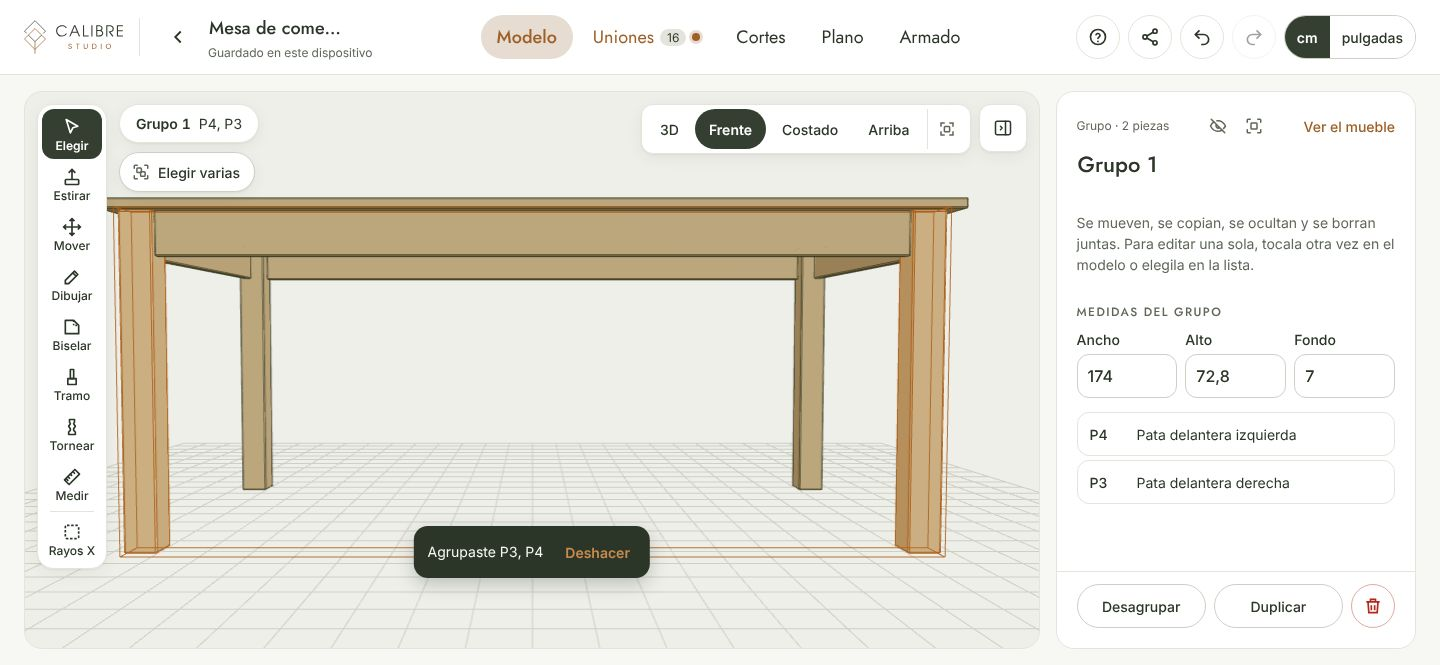
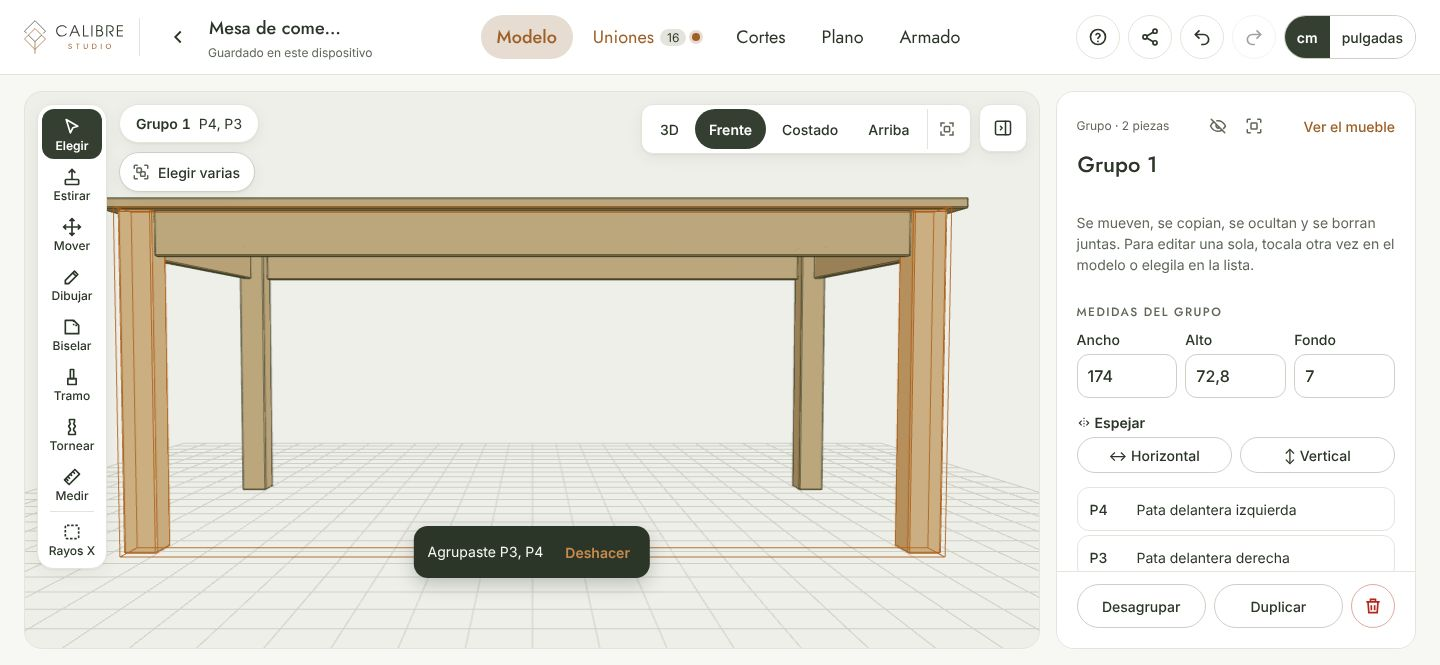
Espejar piezas y grupos: Horizontal y Vertical
Botones Espejar ↔ Horizontal (adelante/atrás mirando de costado) y ↕ Vertical
en el panel de la pieza y en el de varias piezas o grupo, con vista previa.
Núcleo: flipPart (vaciados, biseles, tramos, torneado, inclinación; en una copia
de componente guarda el reflejo) y flipParts (varias piezas sobre el centro de lo
que ocupan). Ayuda: sección Espejar en El panel de la pieza y en Grupos.

Claude-Session: https://claude.ai/code/session_01SmEZXDc5QYCbrpg9QoZ2eB

Changed region(s): [[0.75, 0.6316, 0.9375, 0.782], [0.7812, 0.812, 0.9062, 0.8421]]

diff --git a/apps/web/src/editor/PartPanel.tsx b/apps/web/src/editor/PartPanel.tsx
@@ -65,13 +65,14 @@ import {
   type Section,
   type Units,
   tenonWidth,
+  flipParts,
 } from '@kitc/core';
 import { OPEN_EVENT, PartNotes, ReviewCard, reviewSummary, useReview } from './Review';
 import { GoldenCard, goldenCount } from './Golden';
 import { Accordion } from '../ui/Accordion';
 import { HelpTip } from '../help/Help';
 import { sectionHref } from '../routes';
-import { IconCornerPoint, IconCurvePoint, IconGroup, IconLink, IconPlus, IconRotate, IconTrash, IconWarn, IconZoomIn } from './icons';
+import { IconCornerPoint, IconCurvePoint, IconGroup, IconLink, IconFlip, IconPlus, IconRotate, IconTrash, IconWarn, IconZoomIn } from './icons';
 import { TurningCard } from './TurningCard';
 import { FittingPanel } from './FittingPanel';
 import { MaterialOptions, sheetNote } from './MaterialOptions';
@@ -842,6 +843,7 @@ function PartEditor({ part, project }: { part: Part; project: Project }) {
           </button>
         ))}
       </div>
+      <FlipRow ids={[part.id]} label={part.id} />
       {/* Patas inclinadas: la pata gira sobre su punta de arriba y las puntas quedan horizontales. */}
       {leanable(part) && (
         <fieldset className={styles.dims}>
@@ -1161,6 +1163,7 @@ function PickedPanel({ project, ids }: { project: Project; ids: string[] }) {
           : t('Agrupalas para que se muevan juntas. Shift + clic (o Elegir varias) suma o saca piezas.')}
       </p>
       <FurnitureSize key={ids.join()} project={project} ids={ids} />
+      <FlipRow ids={ids} label={label} />
       <ul className={styles.partList} data-many={parts.length > PART_LIST_MAX || undefined}>
         {parts.map((p) => (
           <li key={p.id}>
@@ -1220,6 +1223,44 @@ function PickedPanel({ project, ids }: { project: Project; ids: string[] }) {
   );
 }
 
+/**
+ * Espejar la pieza (o las piezas elegidas, sobre el centro de lo que ocupan): de izquierda a derecha, o de adelante
+ * hacia atrás si se mira de costado, y de arriba abajo. Pasa con vista previa: lo dibujado cambia de lado.
+ */
+function FlipRow({ ids, label }: { ids: string[]; label: string }) {
+  const propose = useEditor((s) => s.propose);
+  const side = useEditor((s) => s.view === 'side');
+  const flips = [
+    side
+      ? ([2, tk('↔ Horizontal'), tk('Lo de adelante pasa atrás, como visto en un espejo')] as const)
+      : ([0, tk('↔ Horizontal'), tk('Lo de la izquierda pasa a la derecha, como visto en un espejo')] as const),
+    [1, tk('↕ Vertical'), tk('Lo de arriba pasa abajo, como visto en un espejo')] as const,
+  ];
+  return (
+    <div className={styles.rotateRow} data-two role="group" aria-label={t('Espejar')}>
+      <span className={styles.rotateTitle}>
+        <IconFlip />
+        {t('Espejar')}
+      </span>
+      {flips.map(([axis, name, title]) => (
+        <button
+          key={axis}
+          type="button"
+          title={t(title)}
+          onClick={() =>
+            propose((d) => flipParts(d.parts as Part[], ids, axis), t('Espejaste {id}', { id: label }), {
+              title: t('{id} en espejo', { id: label }),
+              select: ids.length === 1 ? ids[0] : ids,
+            })
+          }
+        >
+          {t(name)}
+        </button>
+      ))}
+    </div>
+  );
+}
+
 /** Si la pieza es parte de un componente: cuántas copias tiene y qué cambia junto. */
 function ComponentNote({ project, part, name }: { project: Project; part: Part; name: string }) {
   const copies = componentCopies(project, part);
@@ -1232,7 +1273,7 @@ function ComponentNote({ project, part, name }: { project: Project; part: Part; 
       </span>
       <p className={styles.muted}>
         {others.length ? t('Medidas, madera y cantos cambian junto con {ids}.', { ids: others.join(', ') }) : t('Duplicala o copiala al mover y las copias quedan vinculadas.')}
-        {part.orient && ` ${t('Esta copia va girada: los biseles y vaciados le llegan en su lugar.')}`}
+        {part.orient && ` ${t('Esta copia va girada o espejada: los biseles y vaciados le llegan en su lugar.')}`}
       </p>
     </div>
   );

diff --git a/apps/web/src/ayuda/es-piezas.ts b/apps/web/src/ayuda/es-piezas.ts
@@ -6,7 +6,7 @@ export const ES_PARTS: Article[] = [
     id: 'panel-pieza',
     topic: 'piezas',
     title: 'El panel de la pieza',
-    summary: 'Medidas, posición, giro, madera, forma y uniones de la pieza elegida.',
+    summary: 'Medidas, posición, giro, espejo, madera, forma y uniones de la pieza elegida.',
     intro: [
       p('Cuando elegís una pieza, el panel de la derecha muestra todo lo de esa pieza, de arriba hacia abajo: cuál es, cuánto mide, dónde está, de qué madera es, su forma y con qué otras piezas se une. En el celular, el panel está debajo del modelo.'),
       img('panel-pieza', 'El panel de una pata elegida, marcado'),
@@ -49,6 +49,25 @@ export const ES_PARTS: Article[] = [
             ['**Al costado**', 'La vuelca de costado: lo de arriba pasa a un lado.'],
           ),
           p('Al girar, los vaciados, biseles, tramos y el torneado giran con la pieza.'),
+        ],
+      },
+      {
+        id: 'espejar',
+        title: 'Espejar',
+        blocks: [
+          p('**Espejar** da vuelta la pieza como vista en un espejo, sin moverla de su lugar. Lo dibujado pasa al otro lado: un calado cerca de la punta izquierda queda cerca de la derecha.'),
+          table(
+            ['Botón', 'Qué hace'],
+            ['**↔ Horizontal**', 'Lo de la izquierda pasa a la derecha. Mirando de **Costado**, espeja de adelante hacia atrás.'],
+            ['**↕ Vertical**', 'Lo de arriba pasa abajo.'],
+          ),
+          list(
+            'Antes de aplicar, la vista previa muestra cómo queda, con **Aplicar** y **Cancelar**.',
+            'Pasan con la pieza los vaciados, calados, perfiles a mano, biseles, tramos y el torneado. Una pata inclinada se abre hacia el otro lado.',
+            'En una copia de un componente se espeja solo esa copia, igual que al girar.',
+            'Con varias piezas o un grupo elegidos, se espejan todas juntas sobre el centro de lo que ocupan: cada una se da vuelta y pasa al lugar reflejado.',
+          ),
+          tip('Para hacer una pata con curva y tener las cuatro, dibujá la curva en una, usá **Del otro lado** para la gemela y espejá las que hagan falta.'),
         ],
       },
       {
@@ -261,7 +280,7 @@ export const ES_PARTS: Article[] = [
           steps(
             'Elegí una copia del componente.',
             'Usá **Girar 90°** en el panel. Gira solo esa copia: las demás quedan como están.',
-            'El panel lo dice: **Esta copia va girada**.',
+            'El panel lo dice: **Esta copia va girada o espejada**.',
           ),
         ],
       },
@@ -322,6 +341,7 @@ export const ES_PARTS: Article[] = [
             'Con el grupo elegido, Mover y las flechas mueven todas sus piezas juntas.',
             'En **Medidas del grupo** cambiás el ancho, el alto o el fondo de todo el grupo. Más información: [Medidas del mueble y del grupo](medidas-mueble).',
             '**Duplicar** hace un grupo nuevo con las copias.',
+            '**Espejar** da vuelta el grupo entero como visto en un espejo, sin moverlo de su lugar. Más información: [El panel de la pieza](panel-pieza).',
             'Los grupos aparecen primero en la lista de **Piezas** del mueble, con su ojo para ocultarlos.',
           ),
         ],

diff --git a/apps/web/src/ayuda/en-piezas.ts b/apps/web/src/ayuda/en-piezas.ts
@@ -6,7 +6,7 @@ export const EN_PARTS: Article[] = [
     id: 'panel-pieza',
     topic: 'piezas',
     title: 'The part panel',
-    summary: 'Size, position, rotation, wood, shape and joints of the selected part.',
+    summary: 'Size, position, rotation, mirroring, wood, shape and joints of the selected part.',
     intro: [
       p('When you select a part, the panel on the right shows everything about it, top to bottom: which part it is, its size, where it is, its wood, its shape and which parts it joins. On a phone, the panel is below the model.'),
       img('panel-pieza', 'The panel of a selected leg, highlighted'),
@@ -49,6 +49,25 @@ export const EN_PARTS: Article[] = [
             ['**Sideways**', 'Tips it to one side: the top goes to a side.'],
           ),
           p('Pockets, bevels, sections and turning rotate with the part.'),
+        ],
+      },
+      {
+        id: 'espejar',
+        title: 'Mirror',
+        blocks: [
+          p('**Mirror** flips the part as seen in a mirror, without moving it. What is drawn moves to the other side: a cutout near the left end ends up near the right end.'),
+          table(
+            ['Button', 'What it does'],
+            ['**↔ Horizontal**', 'What was on the left moves to the right. Looking from the **Side**, it mirrors front to back.'],
+            ['**↕ Vertical**', 'What was on top moves to the bottom.'],
+          ),
+          list(
+            'Before it applies, the preview shows the result, with **Apply** and **Cancel**.',
+            'Pockets, cutouts, freehand profiles, bevels, sections and turning go with the part. A leaning leg splays the other way.',
+            'On a copy of a component only that copy is mirrored, just like rotating.',
+            'With several parts or a group selected, they are mirrored together about the center of what they take up: each one flips and moves to its mirrored spot.',
+          ),
+          tip('To make a curved leg and get all four, draw the curve on one, use **Other side** for its twin and mirror the ones you need.'),
         ],
       },
       {
@@ -261,7 +280,7 @@ export const EN_PARTS: Article[] = [
           steps(
             'Select a copy of the component.',
             'Use **Rotate 90°** in the panel. It turns only that copy: the others stay as they are.',
-            'The panel says so: **This copy is rotated**.',
+            'The panel says so: **This copy is rotated or mirrored**.',
           ),
         ],
       },
@@ -322,6 +341,7 @@ export const EN_PARTS: Article[] = [
             'With the group selected, Move and the arrow keys move all its parts together.',
             'Under **Group size** you change the width, height or depth of the whole group. Learn more: [Overall and group size](medidas-mueble).',
             '**Duplicate** makes a new group with the copies.',
+            '**Mirror** flips the whole group as seen in a mirror, without moving it. Learn more: [The part panel](panel-pieza).',
             'Groups come first in the piece’s **Parts** list, with their eye to hide them.',
           ),
         ],

diff --git a/packages/core/src/rotate.test.ts b/packages/core/src/rotate.test.ts
@@ -1,7 +1,7 @@
 import { describe, expect, it } from 'vitest';
 import type { Axis } from './geometry';
 import type { Part } from './project';
-import { rotatePart } from './rotate';
+import { flipPart, rotatePart } from './rotate';
 
 const slat = (): Part => ({
   id: 'L1',
@@ -71,5 +71,45 @@ describe('girar 90°', () => {
         { at: 340, d: 40, to: 'curve', bulge: 3 },
       ],
     });
+  });
+});
+
+describe('espejar', () => {
+  it('de izquierda a derecha: el vaciado y el tramo pasan a la otra punta, sin moverse la pieza', () => {
+    const p = slat();
+    flipPart(p, 0);
+    expect(p.position).toEqual([100, 400, 0]);
+    expect(p.base).toEqual({ kind: 'box', size: [340, 25, 40] });
+    // El rectángulo a 20 de la izquierda (60 de largo) queda a 20 de la derecha: 340 − 80.
+    expect(p.pockets[0]!.shape).toMatchObject({ kind: 'rect', u: 260, w: 60 });
+    expect(p.sections[0]).toMatchObject({ axis: 0, from: 280, to: 340 });
+    expect(p.bevels[0]!.a).toEqual({ axis: 0, side: -1 });
+  });
+
+  it('de arriba abajo: el vaciado de arriba pasa abajo y el arco da vuelta su flecha', () => {
+    const p = slat();
+    flipPart(p, 1);
+    expect([p.pockets[0]!.axis, p.pockets[0]!.side]).toEqual([1, -1]);
+    expect(p.pockets[2]!.shape).toMatchObject({ kind: 'arc', v: 0, v2: 0, bulge: 10 });
+  });
+
+  it('dos veces deja la pieza como estaba', () => {
+    for (const axis of [0, 1, 2] as Axis[]) {
+      const p = slat();
+      flipPart(p, axis);
+      flipPart(p, axis);
+      expect(p).toEqual(slat());
+    }
+  });
+
+  it('una pata inclinada se abre hacia el otro lado; una copia de componente guarda el reflejo', () => {
+    const p = { ...slat(), lean: [5, -3] as [number, number], component: 'C1' };
+    flipPart(p, 0);
+    expect(p.lean).toEqual([-5, -3]);
+    expect(p.orient).toEqual([-1, 2, 3]);
+    flipPart(p, 2);
+    expect(p.lean).toEqual([-5, 3]);
+    flipPart(p, 1);
+    expect(p.lean).toEqual([-5, 3]);
   });
 });

diff --git a/packages/core/src/groups.test.ts b/packages/core/src/groups.test.ts
@@ -1,5 +1,5 @@
 import { describe, expect, it } from 'vitest';
-import { addCopies, duplicateParts, groupOf, isWholeGroup, makeGroup, partsBox, resizeGroup, syncGroups, ungroup } from './groups';
+import { addCopies, duplicateParts, flipParts, groupOf, isWholeGroup, makeGroup, partsBox, resizeGroup, syncGroups, ungroup } from './groups';
 import { partBox } from './geometry';
 import { loadProject, SCHEMA_VERSION } from './project';
 import { decodeShare, encodeShare } from './share';
@@ -85,5 +85,27 @@ describe('grupos', () => {
     expect(p.parts.filter((x) => !ids.includes(x.id))).toEqual(others);
     const legsAfter = ['P3', 'P4'].map((id) => partBox(p.parts.find((x) => x.id === id)!));
     expect(legsAfter.map((b) => b.max[0] - b.min[0])).toEqual(legs.map((b) => b.max[0] - b.min[0]));
+  });
+});
+
+describe('espejar varias piezas', () => {
+  it('cada pieza pasa al lugar reflejado y el conjunto no se va de donde estaba', () => {
+    const p = mesa();
+    const ids = ['P1', 'F2', 'F3'];
+    const before = partsBox(p.parts, ids)!;
+    const f2 = partBox(p.parts.find((x) => x.id === 'F2')!);
+    flipParts(p.parts, ids, 0);
+    expect(partsBox(p.parts, ids)).toEqual(before);
+    const after = partBox(p.parts.find((x) => x.id === 'F2')!);
+    expect(after.min[0]).toBe(before.min[0] + before.max[0] - f2.max[0]);
+    // La pata pasa del borde izquierdo al derecho del conjunto.
+    expect(partBox(p.parts.find((x) => x.id === 'P1')!).max[0]).toBe(before.max[0]);
+  });
+
+  it('una sola pieza se espeja en su lugar', () => {
+    const p = mesa();
+    const box = partBox(p.parts.find((x) => x.id === 'F1')!);
+    flipParts(p.parts, ['F1'], 1);
+    expect(partBox(p.parts.find((x) => x.id === 'F1')!)).toEqual(box);
   });
 });

diff --git a/packages/core/src/groups.ts b/packages/core/src/groups.ts
@@ -1,6 +1,7 @@
 import { copyPart } from './components';
 import { partBox, type Axis, type Box } from './geometry';
 import { resizeFurniture, type ResizeResult } from './resize';
+import { flipPart } from './rotate';
 import { t } from './i18n';
 import type { Group, Part, Project } from './project';
 
@@ -84,6 +85,22 @@ export function partsBox(parts: Part[], ids: readonly string[]): Box | null {
     min: [0, 1, 2].map((k) => Math.min(...boxes.map((b) => b.min[k]!))) as Box['min'],
     max: [0, 1, 2].map((k) => Math.max(...boxes.map((b) => b.max[k]!))) as Box['max'],
   };
+}
+
+/**
+ * Espeja estas piezas juntas sobre el centro de lo que ocupan: cada una se da vuelta y pasa al lugar reflejado, así
+ * el conjunto queda como visto en un espejo y no se va de donde estaba. Con una sola pieza, se espeja en su lugar.
+ */
+export function flipParts(parts: Part[], ids: readonly string[], axis: Axis): void {
+  const box = partsBox(parts, ids);
+  if (!box) return;
+  const sum = box.min[axis] + box.max[axis];
+  for (const part of parts) {
+    if (!ids.includes(part.id) || part.base.kind !== 'box') continue;
+    const own = partBox(part);
+    flipPart(part, axis);
+    part.position[axis] = sum - own.max[axis];
+  }
 }
 
 /**

diff --git a/packages/core/src/rotate.ts b/packages/core/src/rotate.ts
@@ -165,6 +165,18 @@ export function turnPart(part: Part, about: Axis): void {
   setOrient(part, rotationOrient(about));
 }
 
+/**
+ * Espejar una pieza desde el panel, en su lugar: lo de la izquierda pasa a la derecha (eje 0), lo de abajo arriba (1)
+ * o lo de atrás adelante (2). Pasan los vaciados, biseles, tramos y torneado; una pata inclinada se abre hacia el
+ * otro lado. Si es copia de un componente, se espeja solo esa copia, como al girar.
+ */
+export function flipPart(part: Part, axis: Axis): void {
+  mirrorShape(part, axis);
+  setOrient(part, mirrorOrient(axis));
+  // La inclinación es de la punta de abajo, de frente (X) y de costado (Z); dada vuelta de arriba abajo no cambia.
+  if (part.lean && axis !== 1) part.lean[axis === 0 ? 0 : 1] *= -1;
+}
+
 /** Suma un giro o un reflejo a la orientación de la copia (solo en componentes). */
 export function setOrient(part: Part, change: Orient): void {
   if (!part.component) return void delete part.orient;

diff --git a/apps/web/src/i18n/en-editor.ts b/apps/web/src/i18n/en-editor.ts
@@ -265,6 +265,14 @@ export default {
   'La vuelca hacia adelante: lo de arriba pasa al frente': 'Tips it forward: the top becomes the front',
   'La vuelca de costado: lo de arriba pasa a un lado': 'Tips it sideways: the top becomes a side',
   'Giraste {id}': 'You rotated {id}',
+  'Espejar': 'Mirror',
+  '↔ Horizontal': '↔ Horizontal',
+  '↕ Vertical': '↕ Vertical',
+  'Lo de la izquierda pasa a la derecha, como visto en un espejo': 'What was on the left moves to the right, as seen in a mirror',
+  'Lo de adelante pasa atrás, como visto en un espejo': 'What was at the front moves to the back, as seen in a mirror',
+  'Lo de arriba pasa abajo, como visto en un espejo': 'What was on top moves to the bottom, as seen in a mirror',
+  'Espejaste {id}': 'You mirrored {id}',
+  '{id} en espejo': '{id}, mirrored',
   'mismo retiro que {id}': 'same inset as {id}',
   ' al lado de ': ' alongside ',
   'Pieza elegida': 'Selected part',

diff --git a/apps/web/src/ayuda/es.ts b/apps/web/src/ayuda/es.ts
@@ -191,7 +191,7 @@ export const ES: HelpContent = {
             p('El panel cambia según lo que esté elegido:'),
             list(
               '**Sin nada elegido**: las medidas de todo el mueble, la revisión del diseño, la proporción áurea, la lista de piezas y **Agregar pieza**.',
-              '**Con una pieza elegida**: sus medidas, su posición, Girar 90°, Inclinar la pata (en patas y parantes), la madera, los cantos y sus uniones. Abajo, Duplicar, Del otro lado y Borrar.',
+              '**Con una pieza elegida**: sus medidas, su posición, Girar 90°, Espejar, Inclinar la pata (en patas y parantes), la madera, los cantos y sus uniones. Abajo, Duplicar, Del otro lado y Borrar.',
             ),
             p('El botón al lado de las vistas pliega el panel para ver el modelo más grande.'),
           ],

diff --git a/apps/web/src/ayuda/en.ts b/apps/web/src/ayuda/en.ts
@@ -187,7 +187,7 @@ export const EN: HelpContent = {
             p('The panel changes with what is selected:'),
             list(
               '**Nothing selected**: the size of the whole piece, the design review, the golden ratio, the parts list and **Add part**.',
-              '**A part selected**: its sizes, its position, Rotate 90°, Lean the leg (on legs and posts), the wood, the edges and its joints. At the bottom, Duplicate, Other side and Delete.',
+              '**A part selected**: its sizes, its position, Rotate 90°, Mirror, Lean the leg (on legs and posts), the wood, the edges and its joints. At the bottom, Duplicate, Other side and Delete.',
             ),
             p('The button next to the views folds the panel to see the model larger.'),
           ],

diff --git a/apps/web/src/i18n/en-panels.ts b/apps/web/src/i18n/en-panels.ts
@@ -580,5 +580,5 @@ export default {
   'Juntar': 'Put together',
   'Separar piezas': 'Pull apart',
   'Giraste {id}, solo esta copia: lo que le hagas a cualquier copia le llega a cada una en su lugar': 'You rotated {id}, only this copy: whatever you do to any copy reaches each one in its place',
-  'Esta copia va girada: los biseles y vaciados le llegan en su lugar.': 'This copy is rotated: bevels and pockets reach it in its place.',
+  'Esta copia va girada o espejada: los biseles y vaciados le llegan en su lugar.': 'This copy is rotated or mirrored: bevels and pockets reach it in its place.',
 } satisfies Record<string, string>;

diff --git a/apps/web/src/editor/Editor.module.css b/apps/web/src/editor/Editor.module.css
@@ -486,6 +486,7 @@
 .foldBody[hidden] { display: none; }
 .foldBody .muted { margin: 0; }
 .rotateRow { display: grid; grid-template-columns: repeat(3, minmax(0, 1fr)); gap: 4px var(--space-2); }
+.rotateRow[data-two] { grid-template-columns: repeat(2, minmax(0, 1fr)); }
 .rotateTitle { grid-column: 1 / -1; display: inline-flex; align-items: center; gap: 4px; font-size: var(--text-s); font-weight: 600; color: var(--ink); }
 .rotateTitle svg { width: 14px; height: 14px; }
 .rotateRow button {
